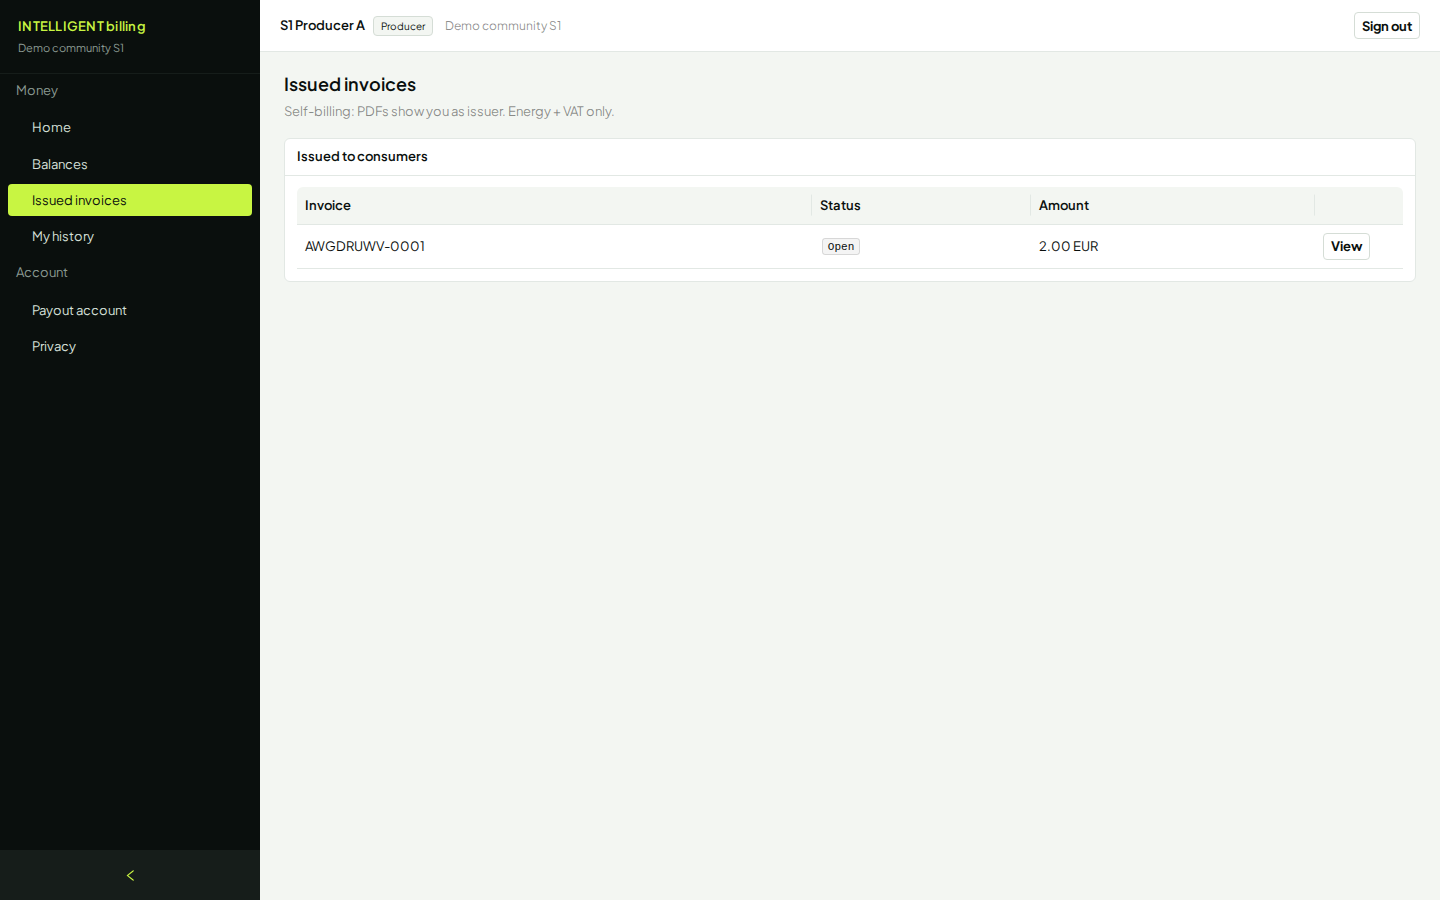
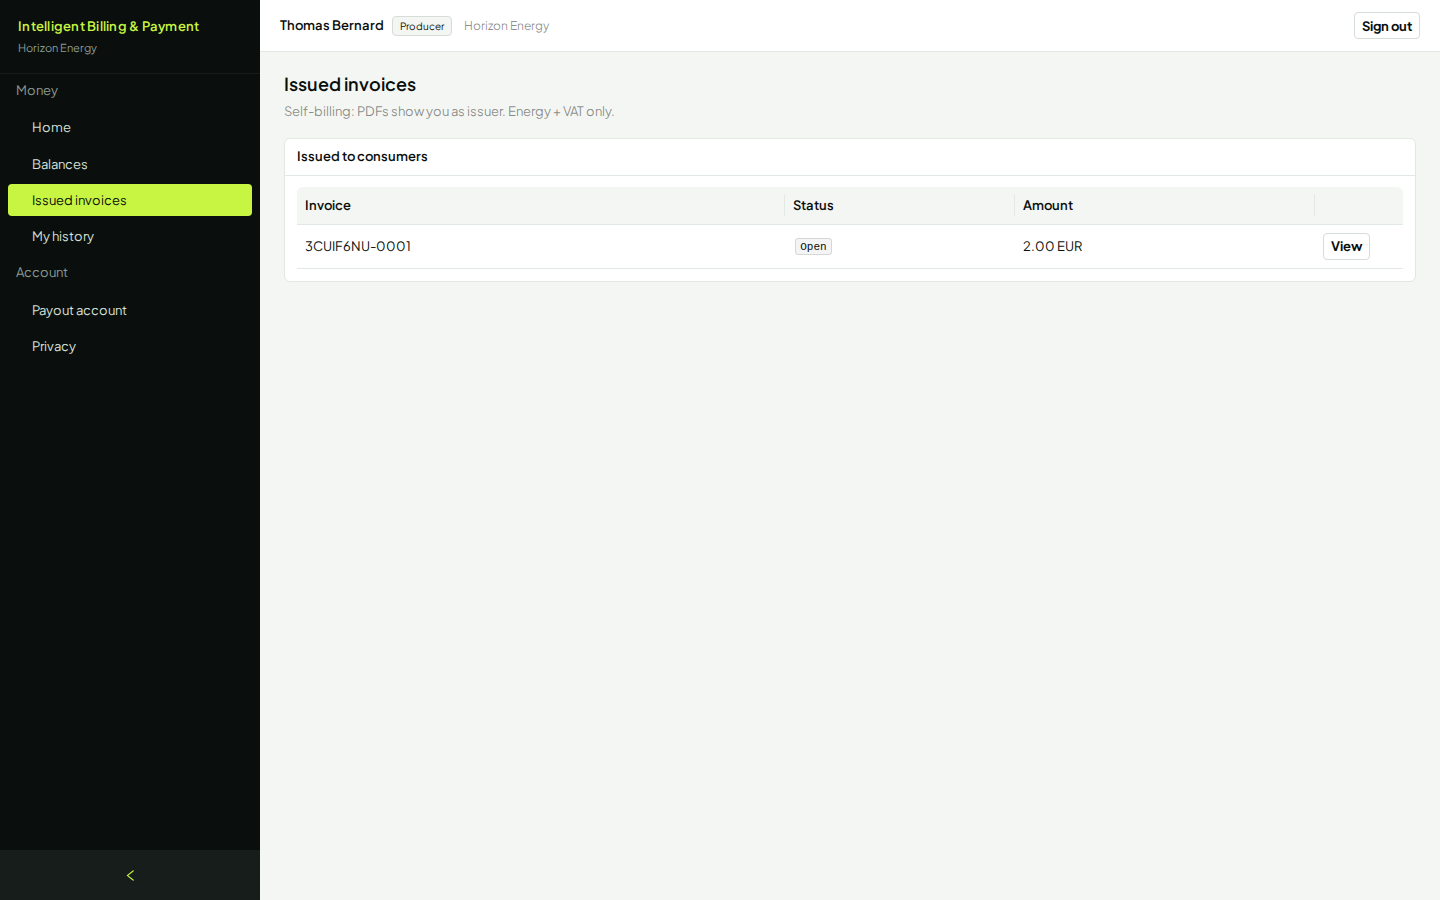
docs(testing): INT-283 recapture demo workbook screenshots (#189)
Refresh persona screenshots on app.dev after Horizon Energy labels,
directory names in Members, and Intelligent Billing & Payment brand.

diff --git a/docs/testing/cahier-de-tests-demo-intelligent-billing-and-payment.md b/docs/testing/cahier-de-tests-demo-intelligent-billing-and-payment.md
@@ -11,9 +11,8 @@
 Les captures d’écran sont dans `docs/testing/assets/demo-workbook/`.  
 Relancer la capture : `node scripts/capture-demo-workbook.mjs`.
 
-> **Marque :** l’écran de connexion et le menu affichent **Intelligent Billing & Payment** après déploiement de INT-282.  
-> Capture de référence (build local) :  
-> ![Login — Intelligent Billing & Payment](assets/demo-workbook/00-login-brand-ibp.png)
+> Captures prises sur `app.dev` après INT-282 / INT-283 (marque, personas, Horizon Energy).  
+> ![Login — Intelligent Billing & Payment](assets/demo-workbook/00-login-brand.png)
 
 ---
 
